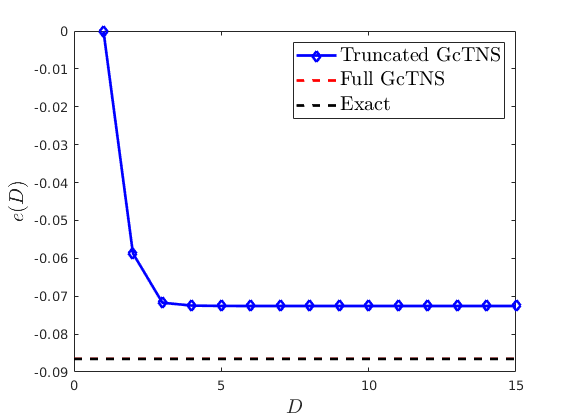
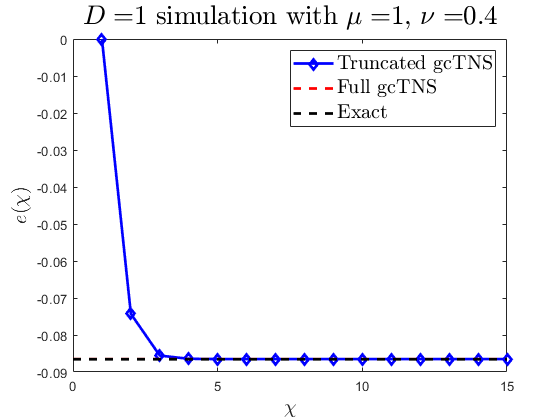
D=1 case checked!
other D's not right yet :) but it's close

diff --git a/Entanglement_truncation/Matlab/entanglement_spectrum.m b/Entanglement_truncation/Matlab/entanglement_spectrum.m
@@ -3,12 +3,12 @@ clc
 
 mu = 1;
 nu = 0.4;
-D = 1;
+D = 3;
 % number of iterations: (nmax+1)^D (so can go pretty big as D is small in
 % general)
-nmax = 30 ;
+nmax = 10 ;
 
-[Nu, S, Epsilon, xi, entropy, V, alpha] = symplectic_decomposition(D, mu, nu);
+[Nu, S, Epsilon, xi, entropy, V, alpha, e_gctns] = symplectic_decomposition(D, mu, nu);
 V = diag(V);
 
 % brute force way: a nested for loop in which you fill each mode up to a
@@ -32,7 +32,6 @@ for i = 1:D
     end
 end
 
-celldisp(states)
 
 for i = 2:length(states)
     schmidts(i) = prod(1-xi);
@@ -45,12 +44,12 @@ end
 [schmidts, sortIdx] = sort(schmidts, 'descend');
 states = states(sortIdx);
 
-schmidt_max = 30;
-schmidt_nmbr = linspace(1,schmidt_max,schmidt_max);
+chi_max = 20;
+schmidt_nmbr = linspace(1,chi_max,chi_max);
 
 ticks = {};
 % construct list of state strings
-for i = 1:schmidt_max
+for i = 1:chi_max
     ket = states{i};
     str = "";
     str = str + '$$|';
@@ -66,7 +65,7 @@ end
 
 set(groot,'defaultAxesTickLabelInterpreter','latex');  
 figure();
-semilogy(schmidt_nmbr, schmidts(1:schmidt_max),'.', 'MarkerSize', 20);
+semilogy(schmidt_nmbr, schmidts(1:chi_max),'.', 'MarkerSize', 20);
 grid on;
 xlabel("state i",'Interpreter','Latex','FontSize',20);
 xticks(schmidt_nmbr);
@@ -77,6 +76,14 @@ title(strcat('$D=$', num2str(D), ' simulation with', ' $\mu=$ ', num2str(mu), ',
 % matrix elements
 T = S.';
 A = T(D+1:2*D,1:D); B = T(1:D,D+1:2*D);
+% loop over bond dimensions
+epsfun = @(p)-4*nu^2./(sqrt((p.^2+mu).^2-4*nu^2)+p.^2+mu);
+e_ex = 1/2/pi*integral(epsfun,0,Inf);
+
+e = zeros(1,chi_max);
+
+
+for schmidt_max = 1:chi_max
 phi_1 = zeros(schmidt_max, schmidt_max);
 % loop over each phi
 for M = 1:schmidt_max
@@ -108,34 +115,56 @@ for M = 1:schmidt_max
                 end
                 phi_i(M,N) = phi_i(M,N) - 1i*phi_ij1 + 1i*phi_ij2;
                 
-
-                
+%squares
                 for k = 1:D
-                    phisq_ij1 = B(i,j)*B(i,k)*(n(j)*n(k))^0.5*eq(m(j), n(j)-1)*eq(m(k),n(k)-1)/2;
-                    phisq_ij2 = B(i,j)*B(i,k)*((n(j)+1)*n(k))^0.5*eq(m(j), n(j)+1)*eq(m(k),n(k)-1)/2;
-                    phisq_ij3 = B(i,j)*B(i,k)*((n(j)+1)*(n(k)+1))^0.5*eq(m(j), n(j)-1)*eq(m(k),n(k)-1)/2;
-                    phisq_ij4 = B(i,j)*B(i,k)*((n(j))*(n(k)+1))^0.5*eq(m(j), n(j)+1)*eq(m(k),n(k)+1)/2;
-                    pisq_ij1 = A(i,j)*A(i,k)*(n(j)*n(k))^0.5*eq(m(j), n(j)-1)*eq(m(k),n(k)-1)/2;
-                    pisq_ij2 = A(i,j)*A(i,k)*((n(j)+1)*n(k))^0.5*eq(m(j), n(j)+1)*eq(m(k),n(k)-1)/2;
-                    pisq_ij3 = A(i,j)*A(i,k)*((n(j)+1)*(n(k)+1))^0.5*eq(m(j), n(j)-1)*eq(m(k),n(k)-1)/2;
-                    pisq_ij4 = A(i,j)*A(i,k)*(n(j)*(n(k)+1))^0.5*eq(m(j), n(j)+1)*eq(m(k),n(k)+1)/2;
+                    if k == j
+                        phisq_ij1 = B(i,j)^2*(n(j)*(n(j)-1))^0.5*eq(m(j), n(j)-2)/2;
+                        phisq_ij2 = B(i,j)^2*((n(j)+2)*(n(j)+1))^0.5*eq(m(j), n(j)+2)/2;
+                        phisq_ij3 = B(i,j)^2*n(j)*eq(m(j), n(j));
+                        pisq_ij1 = A(i,j)^2*(n(j)*(n(j)-1))^0.5*eq(m(j), n(j)-2)/2;
+                        pisq_ij2 = A(i,j)^2*((n(j)+2)*(n(j)+1))^0.5*eq(m(j), n(j)+2)/2;
+                        pisq_ij3 = A(i,j)^2*n(j)*eq(m(j), n(j));
+                    for l = 1:D
+                        if l == j
+                            phi_ij1 = phi_ij1; %do nothing
+                        else
+                        phisq_ij1 = phisq_ij1*eq(m(l),n(l));
+                        phisq_ij2 = phisq_ij2*eq(m(l),n(l));
+                        phisq_ij3 = phisq_ij3*eq(m(l),n(l));
+                        pisq_ij1 = pisq_ij1*eq(m(l),n(l));
+                        pisq_ij2 = pisq_ij2*eq(m(l),n(l));
+                        pisq_ij3 = pisq_ij3*eq(m(l),n(l));
+                        end
+                    end
+                    phi_i_sq(M,N) = phi_i_sq(M,N) - phisq_ij1 - phisq_ij2 + phisq_ij3;
+                    pi_i_sq(M,N) = pi_i_sq(M,N) + pisq_ij1 + pisq_ij2 + pisq_ij3;
                     
+                    elseif not(k == j)
+                    phisq_ijk1 = B(i,j)*B(i,k)*(n(j)*n(k))^0.5*eq(m(j), n(j)-1)*eq(m(k),n(k)-1)/2;
+                    phisq_ijk2 = B(i,j)*B(i,k)*((n(j)+1)*n(k))^0.5*eq(m(j), n(j)+1)*eq(m(k),n(k)-1)/2;
+                    phisq_ijk3 = B(i,j)*B(i,k)*((n(j)+1)*(n(k)+1))^0.5*eq(m(j), n(j)+1)*eq(m(k),n(k)+1)/2;
+                    phisq_ijk4 = B(i,j)*B(i,k)*((n(j))*(n(k)+1))^0.5*eq(m(j), n(j)-1)*eq(m(k),n(k)+1)/2;
+                    pisq_ijk1 = A(i,j)*A(i,k)*(n(j)*n(k))^0.5*eq(m(j), n(j)-1)*eq(m(k),n(k)-1)/2;
+                    pisq_ijk2 = A(i,j)*A(i,k)*((n(j)+1)*n(k))^0.5*eq(m(j), n(j)+1)*eq(m(k),n(k)-1)/2;
+                    pisq_ijk3 = A(i,j)*A(i,k)*((n(j)+1)*(n(k)+1))^0.5*eq(m(j), n(j)+1)*eq(m(k),n(k)+1)/2;
+                    pisq_ijk4 = A(i,j)*A(i,k)*(n(j)*(n(k)+1))^0.5*eq(m(j), n(j)-1)*eq(m(k),n(k)+1)/2;
                     for l = 1:D
                         if l == j || l == k
                             phi_ij1 = phi_ij1;
                         else
-                            phisq_ij1 = phisq_ij1*eq(m(l),n(l));
-                            phisq_ij2 = phisq_ij2*eq(m(l),n(l));
-                            phisq_ij3 = phisq_ij3*eq(m(l),n(l));
-                            phisq_ij4 = phisq_ij4*eq(m(l),n(l));
-                            pisq_ij1 = pisq_ij1*eq(m(l),n(l));
-                            pisq_ij2 = pisq_ij2*eq(m(l),n(l));
-                            pisq_ij3 = pisq_ij3*eq(m(l),n(l));
-                            phisq_ij4 = phisq_ij4*eq(m(l),n(l));
+                            phisq_ijk1 = phisq_ijk1*eq(m(l),n(l));
+                            phisq_ijk2 = phisq_ijk2*eq(m(l),n(l));
+                            phisq_ijk3 = phisq_ijk3*eq(m(l),n(l));
+                            phisq_ijk4 = phisq_ijk4*eq(m(l),n(l));
+                            pisq_ijk1 = pisq_ijk1*eq(m(l),n(l));
+                            pisq_ijk2 = pisq_ijk2*eq(m(l),n(l));
+                            pisq_ijk3 = pisq_ijk3*eq(m(l),n(l));
+                            phisq_ijk4 = phisq_ijk4*eq(m(l),n(l));
                         end
                     end
-                    phi_i_sq(M,N) = phi_i_sq(M,N) - phisq_ij1 + phisq_ij2 + phisq_ij3 - phisq_ij4;
-                    pi_i_sq(M,N) = phi_i_sq(M,N) + pisq_ij1 + pisq_ij2 + pisq_ij3 + pisq_ij4;
+                    phi_i_sq(M,N) = phi_i_sq(M,N) - phisq_ijk1 + phisq_ijk2 - phisq_ijk3 + phisq_ijk4;
+                    pi_i_sq(M,N) = phi_i_sq(M,N) + pisq_ijk1 + pisq_ijk2 + pisq_ijk3 + pisq_ijk4;
+                    end
                 end
                 
                 
@@ -149,18 +178,33 @@ for M = 1:schmidt_max
     end
     
 end
-
-
 %%%% ENERGY OF THE CMPS %%%%
-rhoL = FindSSL(Q, R, schmidt_max);
-rhoR = FindSSR(Q, R, schmidt_max);
-rhoR = rhoR/trace(rhoL*rhoR);
-QR = Q*R - R*Q;
-R2 = R*R;
-ekin = trace(rhoL * QR * rhoR * QR');
-density = trace(rhoL * R * rhoR * R');
-epot = mu * density;
-epair = -nu * trace(rhoL*R2*rhoR + rhoL*rhoR*R2');
+    rhoL = FindSSL(Q, R, schmidt_max);
+    rhoR = FindSSR(Q, R, schmidt_max);
+
+    rhoR = rhoR/trace(rhoL*rhoR);
+
+    QR = Q*R - R*Q;
+    R2 = R*R;
+    ekin = trace(rhoL * QR * rhoR * QR');
+    density = trace(rhoL * R * rhoR * R');
+    epot = mu * density;
+    epair = -nu * trace(rhoL*R2*rhoR + rhoL*rhoR*R2');
     %eint = c * trace(rhoL * R2 * rhoR * R2');
 
-e = ekin + epot + epair;
+    e(schmidt_max) = ekin + epot + epair;
+end
+
+figure
+plot(1:chi_max,e,'b-d','LineWidth',2)
+hold on
+plot(0:chi_max,e_gctns*ones(1,chi_max+1),'r--','LineWidth',2)
+plot(0:chi_max,e_ex*ones(1,chi_max+1),'k--','LineWidth',2)
+hold off
+legend(["Truncated gcTNS","Full gcTNS","Exact"],'Interpreter','Latex','FontSize',15)
+xlabel("$\chi$",'Interpreter','Latex','FontSize',15)
+ylabel("$e(\chi)$",'Interpreter','Latex','FontSize',15)
+title(strcat('$D=$', num2str(D), ' simulation with', ' $\mu=$', num2str(mu), ', $\nu=$', num2str(nu)), 'Interpreter','Latex','FontSize',20);
+
+
+

diff --git a/Entanglement_truncation/Matlab/truncation_new.m b/Entanglement_truncation/Matlab/truncation_new.m
@@ -1,0 +1,49 @@
+%clear
+%clc
+
+mu = 1;
+nu = 0.4;
+D=1;
+
+data = dlmread('../../Variational_optimization/Matlab/nonrelboson_real/results/data');
+mask = boolean((data(:,1) == mu).*(data(:,2) == nu).*(data(:,3) == 1));
+e_gctns = data(mask,4);
+data = dlmread(strcat('../../Variational_optimization/Matlab/nonrelboson_real/results/',num2str(mu),'_',num2str(nu),'_1_1'),',');
+V = data(1);
+alpha = data(2);
+Omega = (V^2-alpha^4)^0.25;
+epsfun = @(p)-4*nu^2./(sqrt((p.^2+mu).^2-4*nu^2)+p.^2+mu);
+e_ex = 1/2/pi*integral(epsfun,0,Inf);
+
+chimax = 3;
+e = zeros(1,chimax);
+for chi = 1:chimax
+    R = 1i*alpha/sqrt(2*Omega)*(diag(sqrt(1:chi-1),1)-diag(sqrt(1:chi-1),-1));
+    Q = -(Omega+V/Omega)*diag(0:chi-1)/2 -  1/4*(Omega-V/Omega)*(diag(sqrt((2:chi-1).*(1:chi-2)),2)+diag(sqrt((2:chi-1).*(1:chi-2)),-2));
+
+    rhoL = FindSSL(Q, R, chi);
+    rhoR = FindSSR(Q, R, chi);
+
+    rhoR = rhoR/trace(rhoL*rhoR);
+
+    QR = Q*R - R*Q;
+    R2 = R*R;
+    ekin = trace(rhoL * QR * rhoR * QR');
+    density = trace(rhoL * R * rhoR * R');
+    epot = mu * density;
+    epair = -nu * trace(rhoL*R2*rhoR + rhoL*rhoR*R2');
+    %eint = c * trace(rhoL * R2 * rhoR * R2');
+
+    e(chi) = ekin + epot + epair;
+end
+
+figure
+plot(1:chimax,e,'b-d','LineWidth',2)
+hold on
+plot(0:chimax,e_gctns*ones(1,chimax+1),'r--','LineWidth',2)
+plot(0:chimax,e_ex*ones(1,chimax+1),'k--','LineWidth',2)
+hold off
+legend(["Truncated gcTNS","Full gcTNS","Exact"],'Interpreter','Latex','FontSize',15)
+xlabel("$\chi$",'Interpreter','Latex','FontSize',15)
+ylabel("$e(\chi)$",'Interpreter','Latex','FontSize',15)
+title(strcat('$D=$', num2str(D), ' simulation with', ' $\mu=$', num2str(mu), ', $\nu=$', num2str(nu)), 'Interpreter','Latex','FontSize',20);

diff --git a/Entanglement_truncation/Matlab/truncation_old.m b/Entanglement_truncation/Matlab/truncation_old.m
@@ -1,0 +1,49 @@
+clear
+clc
+
+mu = 1;
+nu = 0.4;
+D=1;
+
+data = dlmread('../../Variational_optimization/Matlab/nonrelboson_real/results/data');
+mask = boolean((data(:,1) == mu).*(data(:,2) == nu).*(data(:,3) == 1));
+e_gctns = data(mask,4);
+data = dlmread(strcat('../../Variational_optimization/Matlab/nonrelboson_real/results/',num2str(mu),'_',num2str(nu),'_1_1'),',');
+V = data(1);
+alpha = data(2);
+Omega = sqrt(V^2-alpha^4);
+epsfun = @(p)-4*nu^2./(sqrt((p.^2+mu).^2-4*nu^2)+p.^2+mu);
+e_ex = 1/2/pi*integral(epsfun,0,Inf);
+
+chimax = 15;
+e = zeros(1,chimax);
+for chi = 1:chimax
+    R = alpha/sqrt(2*Omega)*(diag(sqrt(1:chi-1),1)+diag(sqrt(1:chi-1),-1));
+    Q = -(V/2/Omega+ Omega/3)*diag(1:chi) + 1/4*(Omega-V/Omega)*(diag(sqrt((2:chi-1).*(1:chi-2)),2)+diag(sqrt((2:chi-1).*(1:chi-2)),-2));
+
+    rhoL = FindSSL(Q, R, chi);
+    rhoR = FindSSR(Q, R, chi);
+
+    rhoR = rhoR/trace(rhoL*rhoR);
+
+    QR = Q*R - R*Q;
+    R2 = R*R;
+    ekin = trace(rhoL * QR * rhoR * QR');
+    density = trace(rhoL * R * rhoR * R');
+    epot = mu * density;
+    epair = -nu * trace(rhoL*R2*rhoR + rhoL*rhoR*R2');
+    %eint = c * trace(rhoL * R2 * rhoR * R2');
+
+    e(chi) = ekin + epot + epair;
+end
+
+figure
+plot(1:chimax,e,'b-d','LineWidth',2)
+hold on
+plot(0:chimax,e_gctns*ones(1,chimax+1),'r--','LineWidth',2)
+plot(0:chimax,e_ex*ones(1,chimax+1),'k--','LineWidth',2)
+hold off
+legend(["Truncated gcTNS","Full gcTNS","Exact"],'Interpreter','Latex','FontSize',15)
+xlabel("$\chi$",'Interpreter','Latex','FontSize',15)
+ylabel("$e(\chi)$",'Interpreter','Latex','FontSize',15)
+title(strcat('$D=$', num2str(D), ' simulation with', ' $\mu=$', num2str(mu), ', $\nu=$', num2str(nu)), 'Interpreter','Latex','FontSize',20);

diff --git a/Entanglement_truncation/Matlab/symplectic_decomposition.m b/Entanglement_truncation/Matlab/symplectic_decomposition.m
@@ -1,5 +1,8 @@
-function [Nu, S, Epsilon, xi, entropy, V, alpha] = symplectic_decomposition(D,mu,nu)
+function [Nu, S, Epsilon, xi, entropy, V, alpha, e_gctns] = symplectic_decomposition(D,mu,nu)
 % dlmread reads data into a matrix, strcat concatenates a string
+data = dlmread('../../Variational_optimization/Matlab/nonrelboson_real/results/data');
+mask = boolean((data(:,1) == mu).*(data(:,2) == nu).*(data(:,3) == D));
+e_gctns = data(mask,4);
 data = dlmread(strcat('../../Variational_optimization/Matlab/nonrelboson_real/results/',num2str(mu),'_',num2str(nu),'_', num2str(D), '_1'));
 
 % construct 2Dx2D coupling matrix 

diff --git a/Entanglement_truncation/Matlab/sympl_plot.m b/Entanglement_truncation/Matlab/sympl_plot.m
@@ -2,8 +2,8 @@ clear
 clc
 
 mu = 1;
-nu = 0.5;
-D = 5;
+nu = 0.4;
+D = 1;
 
 [Nu, S, Epsilon, xi, entropy] = symplectic_decomposition(D, mu, nu);
 Number = linspace(1,D,D);
